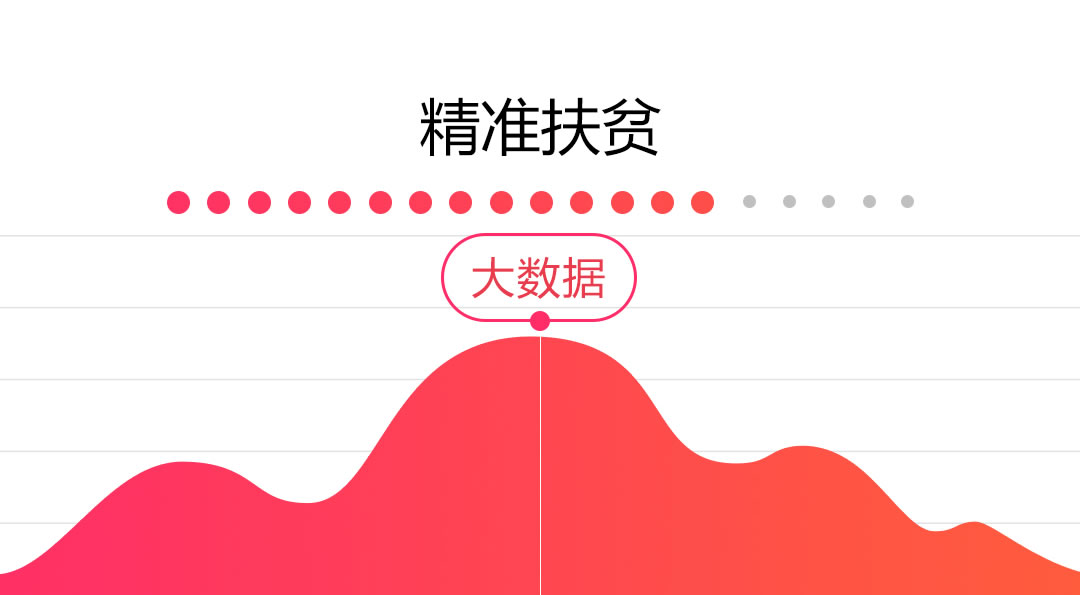
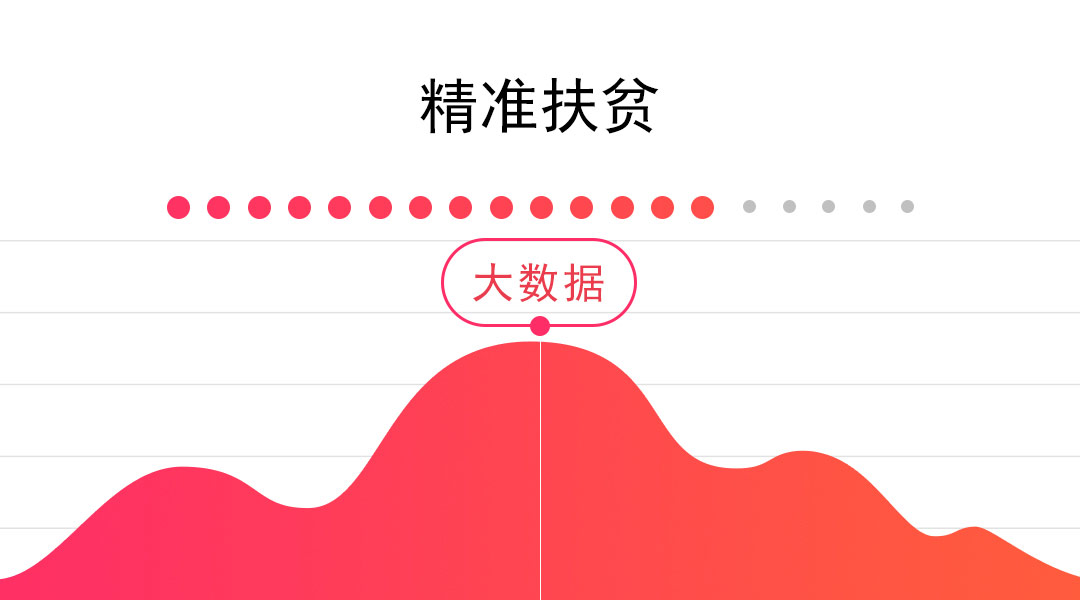
修改首页banner一屏展示

diff --git a/src/script/controller/natural/naturalVillage.js b/src/script/controller/natural/naturalVillage.js
@@ -42,36 +42,37 @@ myApp.controller("naturalVillage", ["$scope", "$state", "$http", "$stateParams",
 			
 			postForm.saveFrm(config.path.naturalVillage,natural.pages)
 			.success(function(res){
+				//判断是否有数据
 				if(res.results){
-				//循环行政村id赋值
-				for(var r=0;r<res.results.length;r++){
-					for(var i=0;i<returnData.length;i++){
-						if(res.results[r].lsxzc == returnData[i].id){
-							res.results[r].lsxzc = returnData[i].name;
+					//循环行政村id赋值
+					for(var r=0;r<res.results.length;r++){
+						for(var i=0;i<returnData.length;i++){
+							if(res.results[r].lsxzc == returnData[i].id){
+								res.results[r].lsxzc = returnData[i].name;
+							}
+						}
+					};
+					//循环自然村id赋值
+					for(var r=0;r<res.results.length;r++){
+						for(var i=0;i<returnzrcData.length;i++){
+							if(res.results[r].zrcmc == returnzrcData[i].id){
+								res.results[r].zrcmc = returnzrcData[i].name;
+							}
 						}
 					}
-				};
-				//循环自然村id赋值
-				for(var r=0;r<res.results.length;r++){
-					for(var i=0;i<returnzrcData.length;i++){
-						if(res.results[r].zrcmc == returnzrcData[i].id){
-							res.results[r].zrcmc = returnzrcData[i].name;
-						}
+					if(num == 1){
+						$timeout(function(){
+							for(var r=0;r<res.results.length;r++){
+								natural.list.push(res.results[r]);
+							}
+		             		// 每次数据加载完，必须重置
+		             		me.resetload();
+		           		},1000);
+					}else{
+						natural.list=res.results;
 					}
-				}
-				if(num == 1){
-					$timeout(function(){
-						for(var r=0;r<res.results.length;r++){
-							natural.list.push(res.results[r]);
-						}
-	             		// 每次数据加载完，必须重置
-	             		me.resetload();
-	           		},1000);
-				}else{
-					natural.list=res.results;
-				}
-				natural.start= natural.start + res.results.length;
-				}else{
+					natural.start= natural.start + res.results.length;
+				}else{ //没有数据时列表为空
 					natural.list=[];
 				}
 			})

diff --git a/src/template/home.html b/src/template/home.html
@@ -3,7 +3,9 @@
 	<div class="sheader text-center navbar-fixed-top" >张家口市精准扶贫大数据平台</div>
 	<!--banner-->
 	<div class="container-fluid banner">
-		<div class="sbanner"></div>
+		<div class="sbanner">
+			
+		</div>
 	</div>
 	<div class="container slist">
 		<div class="sItem">

diff --git a/gulpfile.js b/gulpfile.js
@@ -105,7 +105,8 @@ gulp.task('webserver', function() {
 		.pipe(glp_server({
 			livereload: true,
 			port: '3000',
-			host: 'localhost',
+			//host: 'localhost',
+			host:'192.168.22.181',
 			directoryListing: false,
 			gdefaultFile: "index.html",
 			open: true

diff --git a/src/sass/component/home.scss b/src/sass/component/home.scss
@@ -27,10 +27,11 @@ ul li{
 }
 .banner{
 	padding: 0;
+	margin-top: 4.5rem;
 }
 .sbanner{
 	width: 100%;
-	height: 29rem;
+	height: 20rem;
 	background: url(../../assets/img/banner.jpg) #fff;
 	background-size:100%;
 	background-origin:content-box; 
